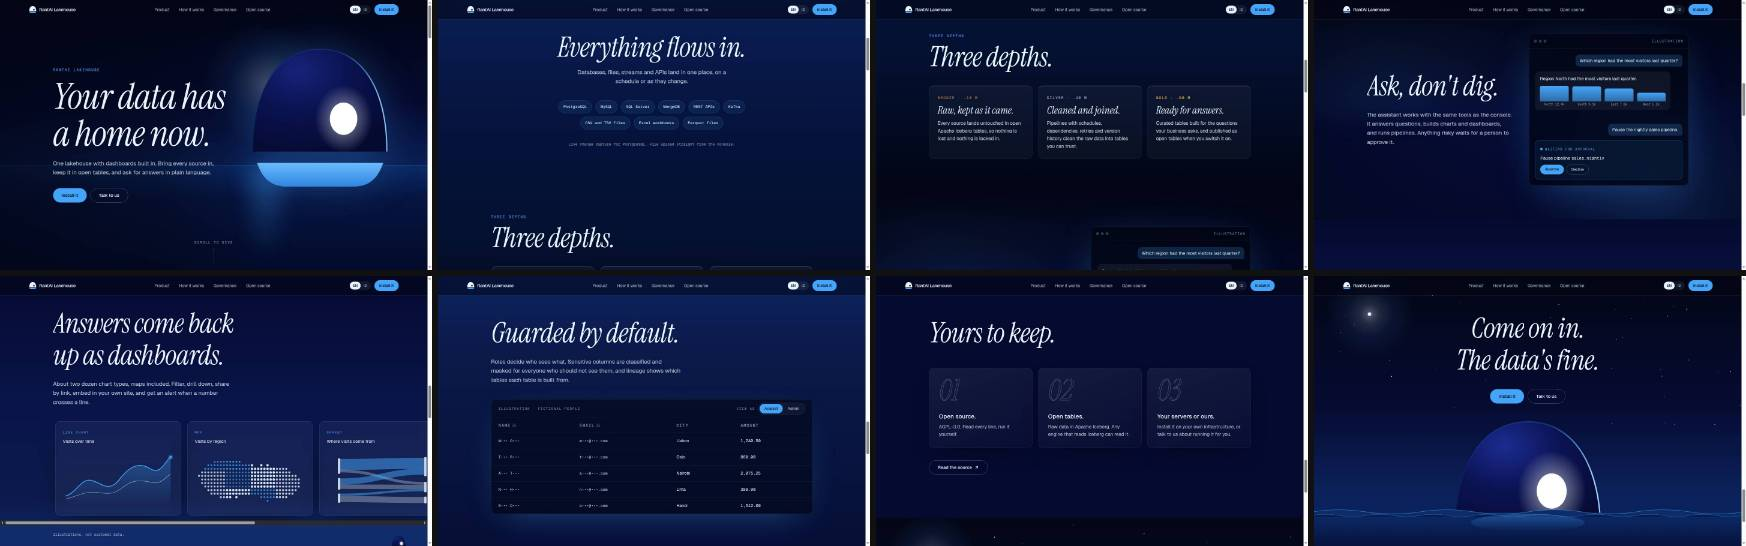
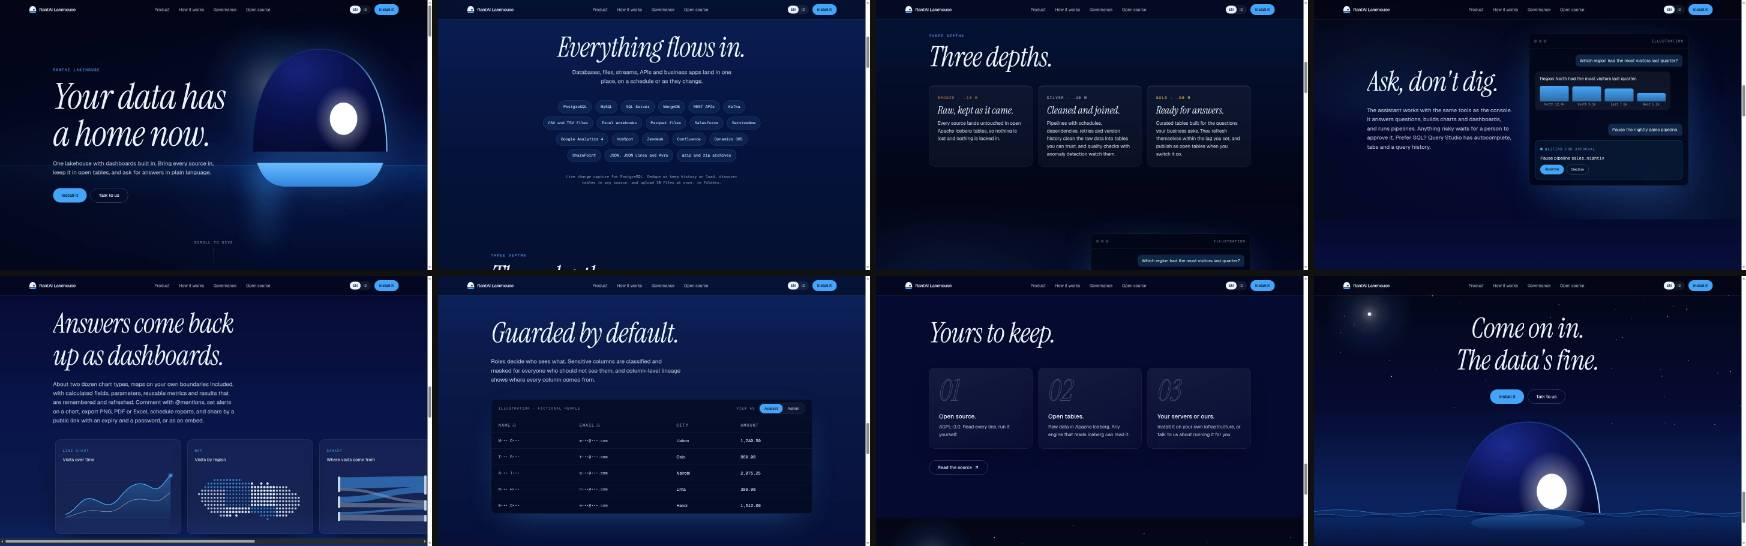
WEB-5 review fix R1 (BLOCKER) perf(site): initial JS 181.2 KB, under the 200 KB budget
PR #379 review 1, R1 BLOCKER: 209.0 KB against 200 KB, so the CI site job
was red. The budget is unchanged.

What was measured, in order:
- The review's suggestion, motion's async LazyMotion
  (`features={() => import("./dom-animation")…}`): 210.1 KB. Turbopack
  writes a bare `import()` target into the HTML as an `async` script, so
  the feature chunk stayed in the first load.
- The real cause: `motion/react` is
  `import * as fm from "framer-motion"; export * …; const motion = fm.motion`.
  Through that local binding, any import from it keeps the full `motion`
  component (layout and drag), whatever LazyMotion or `m.*` do. That is why
  T5's LazyMotion step saved only 0.2 KB.
- Fix 1: the 15 site files import from `framer-motion`, the package
  `motion/react` re-exports, at the exact version `motion` 14.9.1 already
  installed (14.9.1), and its plain re-exports tree-shake. The now-unused
  `motion` dependency is removed. Both changes were made with bun 1.3.12;
  bun.lock stays at lockfileVersion 1. This replaces D1's
  "motion ^14.9.0" with its React package and is flagged for review.
- Fix 2: `domAnimation` arrives after hydration through a `next/dynamic`
  component (`DomAnimationLoader`, ssr: false), which is not written into
  the HTML, and an async LazyMotion waits on its promise. The feature code
  is in two deferred chunks, about 17 KB.
- Result: 181.2 KB on / and /id/; `bun run size` exits 0.

The review's conditions:
[…]

diff --git a/site/src/components/home/assistant-section.tsx b/site/src/components/home/assistant-section.tsx
@@ -1,7 +1,7 @@
 "use client";
 
 import * as React from "react";
-import { m, useMotionValueEvent, useTransform, type MotionValue } from "motion/react";
+import { m, useMotionValueEvent, useTransform, type MotionValue } from "framer-motion";
 import type { HomeCopy } from "@/lib/copy";
 import { APPROVAL_TARGET, REGIONS } from "@/lib/home-content";
 import { Container, DisplayHeading, LeadText } from "@/components/shared/primitives";
@@ -79,6 +79,10 @@ function Caustics() {
   );
 }
 
+// Every `m` element below whose style switches on `reduced` is keyed on it:
+// before motion's features load an `m` element keeps the style it first
+// rendered (WEB-5 review fix R1), and `reduced` is only known after
+// hydration, so a switch of style must remount the element.
 function ChatWindow({ copy, progress, reduced }: { copy: AssistantCopy; progress: MotionValue<number>; reduced: boolean }) {
   // Opacity and travel of each beat, from the same progress.
   const frame = useTransform(progress, [0, 0.05], [0, 1]);
@@ -99,6 +103,7 @@ function ChatWindow({ copy, progress, reduced }: { copy: AssistantCopy; progress
         data-reveal
         aria-hidden="true"
         className="overflow-hidden rounded-3xl border border-[#E8F4FF]/12 bg-[#020514]/70 shadow-[0_30px_120px_-30px_rgba(68,166,250,0.35)] backdrop-blur-xl"
+        key={reduced ? "reduced" : "motion"}
         style={reduced ? { opacity: 1 } : { opacity: frame }}
       >
         <div className="flex items-center justify-between border-b border-[#E8F4FF]/10 px-4 py-3">
@@ -118,6 +123,7 @@ function ChatWindow({ copy, progress, reduced }: { copy: AssistantCopy; progress
           <div className="relative min-h-[120px] md:min-h-[158px]">
             <m.div
               className="absolute top-0 left-0 flex h-9 items-center gap-1.5 rounded-2xl rounded-bl-md bg-[#E8F4FF]/[0.06] px-4"
+              key={reduced ? "reduced" : "motion"}
               style={reduced ? { opacity: 0 } : { opacity: think1 }}
             >
               <Dots />
@@ -125,6 +131,7 @@ function ChatWindow({ copy, progress, reduced }: { copy: AssistantCopy; progress
             <m.div
               data-reveal
               className="max-w-[92%] rounded-2xl rounded-bl-md bg-[#E8F4FF]/[0.06] px-3.5 py-3 md:px-4"
+              key={reduced ? "reduced" : "motion"}
               style={reduced ? { opacity: 1, y: 0 } : { opacity: answerO, y: answerY }}
             >
               <p className="text-[13px] leading-5 text-[#E8F4FF] md:text-[15px] md:leading-6">{copy.answerOne}</p>
@@ -143,6 +150,7 @@ function ChatWindow({ copy, progress, reduced }: { copy: AssistantCopy; progress
           <div className="relative min-h-[92px] md:min-h-[104px]">
             <m.div
               className="absolute top-0 left-0 flex h-9 items-center gap-1.5 rounded-2xl rounded-bl-md bg-[#E8F4FF]/[0.06] px-4"
+              key={reduced ? "reduced" : "motion"}
               style={reduced ? { opacity: 0 } : { opacity: think2 }}
             >
               <Dots />
@@ -150,6 +158,7 @@ function ChatWindow({ copy, progress, reduced }: { copy: AssistantCopy; progress
             <m.div
               data-reveal
               className="rounded-2xl border border-[#44A6FA]/45 bg-[#44A6FA]/[0.08] p-3.5 md:p-4"
+              key={reduced ? "reduced" : "motion"}
               style={reduced ? { opacity: 1, y: 0, scale: 1 } : { opacity: approvalO, y: approvalY, scale: approvalS }}
             >
               <div className="flex items-center gap-2">
@@ -199,6 +208,7 @@ function Bar({
       <m.div
         data-reveal
         className="w-full origin-bottom rounded-t-md bg-gradient-to-t from-[#44A6FA]/60 to-[#44A6FA]"
+        key={reduced ? "reduced" : "motion"}
         style={{ height: `${Math.round(height * 100)}%`, scaleY: reduced ? 1 : scaleY }}
       />
       <span className="lk-mono text-center text-[9px] leading-3 text-[#E8F4FF]/60 md:text-[10px]">

diff --git a/site/src/components/shared/motion-features.tsx b/site/src/components/shared/motion-features.tsx
@@ -1,6 +1,9 @@
 "use client";
 
-import { domAnimation, LazyMotion } from "motion/react";
+import dynamic from "next/dynamic";
+import { LazyMotion } from "framer-motion";
+import { QuietBoundary } from "./quiet-boundary";
+import type { domAnimation } from "framer-motion";
 
 /**
  * WEB-5 D5: the page's animations use `m.*` components with only the
@@ -8,11 +11,45 @@ import { domAnimation, LazyMotion } from "motion/react";
  * instead of `motion.*`, which bundles every feature (layout, drag) into
  * the first JavaScript. `strict` makes a stray `motion.*` an error at
  * runtime rather than a silent return of the full bundle.
+ *
+ * WEB-5 review fix R1 (BLOCKER): the features arrive after hydration.
+ * motion's async form, `features={() => import(...)}`, was measured first:
+ * Turbopack still writes a bare `import()` target into the HTML as an
+ * `async` script, so the chunk stayed in the first load (210.1 KB). A
+ * `next/dynamic` component with `ssr: false` is not written into the HTML
+ * (the 3D scene loads the same way), so the features come through
+ * `DomAnimationLoader`, which resolves the promise `LazyMotion` waits on.
+ *
+ * Until then every `m.*` element shows what the server rendered. Reveals
+ * start hidden only once the features are in: `markReady` puts
+ * `motion-ready` on <html>, and `app/globals.css` keeps every
+ * `[data-reveal]` visible without it. If the chunk never loads, nothing
+ * stays at opacity 0, and `QuietBoundary` keeps its load error from taking
+ * the page down (both measured with the chunk blocked). The hero's h1 and calls to action use no reveal and
+ * no feature, so the largest paint never waits on this chunk.
  */
+type Features = typeof domAnimation;
+
+let resolveFeatures: (features: Features) => void = () => {};
+const features = new Promise<Features>((resolve) => {
+  resolveFeatures = resolve;
+});
+const loadFeatures = () => features;
+
+function markReady(loaded: Features): void {
+  resolveFeatures(loaded);
+  document.documentElement.classList.add("motion-ready");
+}
+
+const DomAnimationLoader = dynamic(() => import("./dom-animation-loader"), { ssr: false });
+
 export function MotionFeatures({ children }: { children: React.ReactNode }) {
   return (
-    <LazyMotion features={domAnimation} strict>
+    <LazyMotion features={loadFeatures} strict>
       {children}
+      <QuietBoundary>
+        <DomAnimationLoader onLoad={markReady} />
+      </QuietBoundary>
     </LazyMotion>
   );
 }

diff --git a/site/src/components/layout/site-document.tsx b/site/src/components/layout/site-document.tsx
@@ -17,8 +17,6 @@ import type { SuggestionText } from "./language-suggestion";
  * `NextIntlClientProvider`, so neither the message files nor next-intl's
  * client runtime ship (D5, measured in T5).
  */
-const JS_CLASS_SCRIPT = `document.documentElement.classList.add("js")`;
-
 export async function SiteDocument({
   locale,
   children,
@@ -30,17 +28,10 @@ export async function SiteDocument({
       : null;
 
   return (
-    // `suppressHydrationWarning`: the inline script below adds `js` to this
-    // element's classes before React hydrates it, on purpose.
+    // `suppressHydrationWarning`: `motion-features.tsx` adds `motion-ready`
+    // to this element's classes in the browser, on purpose.
     <html lang={locale} className={fontVariables} suppressHydrationWarning>
       <body>
-        {/* WEB-5 D5: reveal animations hide their content only once this class
-            is set (globals.css), so the server HTML reads in full without
-            JavaScript, or when the scripts fail to load. A synchronous script
-            at the top of <body> runs before any of the page below it is
-            painted, so a visitor with JavaScript never sees content flash in
-            and out. */}
-        <script dangerouslySetInnerHTML={{ __html: JS_CLASS_SCRIPT }} />
         <MotionFeatures>
           {children}
           {suggestion && <DeferredLanguageSuggestion text={suggestion} />}

diff --git a/site/src/components/home/sources-section.tsx b/site/src/components/home/sources-section.tsx
@@ -1,7 +1,7 @@
 "use client";
 
 import * as React from "react";
-import { m, useTransform, type MotionValue } from "motion/react";
+import { m, useTransform, type MotionValue } from "framer-motion";
 import type { HomeCopy } from "@/lib/copy";
 import { Container, DisplayHeading, LeadText } from "@/components/shared/primitives";
 import { Reveal } from "@/components/shared/reveal";
@@ -36,6 +36,9 @@ export function SourcesSection({ copy }: { copy: HomeCopy["sources"] }) {
             // glow of the mascot's eye seen through the water, so it gets a dark
             // backing there (body text stays above 4.5:1 on it).
             className="relative z-10 max-md:rounded-3xl max-md:bg-[#020b2a]/70 max-md:p-4"
+            // Keyed on `reduced`: before motion's features load an `m` element keeps
+            // the style it first rendered (review fix R1), so a switch must remount it.
+            key={reduced ? "reduced" : "motion"}
             style={reduced ? { opacity: 1, y: 0 } : { opacity: headOpacity, y: headY }}
           >
             <DisplayHeading>{copy.headline}</DisplayHeading>

diff --git a/site/src/components/home/scene-zone.tsx b/site/src/components/home/scene-zone.tsx
@@ -3,6 +3,7 @@
 import * as React from "react";
 import dynamic from "next/dynamic";
 import { useLandingMode } from "@/components/effects/scene-mode";
+import { QuietBoundary } from "@/components/shared/quiet-boundary";
 import { cn } from "@/lib/utils";
 
 /**
@@ -46,12 +47,15 @@ export function SceneZone({ children }: { children: React.ReactNode }) {
             sceneReady ? "opacity-100" : "opacity-0",
           )}
         >
-          <LakeScene
-            mode={mode === "still" ? "still" : "full"}
-            observe={zoneRef}
-            onReady={markReady}
-            onFail={markFailed}
-          />
+          {/* A scene chunk that fails to load falls back to the DOM hero, like a lost context (review fix R1). */}
+          <QuietBoundary onError={markFailed}>
+            <LakeScene
+              mode={mode === "still" ? "still" : "full"}
+              observe={zoneRef}
+              onReady={markReady}
+              onFail={markFailed}
+            />
+          </QuietBoundary>
         </div>
       )}
       <div className="relative z-10">{children}</div>

diff --git a/site/src/components/shared/quiet-boundary.tsx b/site/src/components/shared/quiet-boundary.tsx
@@ -1,0 +1,32 @@
+"use client";
+
+import * as React from "react";
+
+/**
+ * Catches an error under it, usually a deferred chunk that failed to load,
+ * and renders nothing in its place. WEB-5 review fix R1: without it, a
+ * `next/dynamic` chunk that never arrives (a flaky network, a blocked
+ * script) throws a ChunkLoadError up to Next's root, which replaces the
+ * whole page with its "This page couldn't load" screen, measured with the
+ * chunk blocked. Every deferred piece of the page (the animation features,
+ * the 3D scene, the language offer) sits under one, so the page itself
+ * always stays.
+ */
+export class QuietBoundary extends React.Component<
+  { children: React.ReactNode; onError?: () => void },
+  { failed: boolean }
+> {
+  state = { failed: false };
+
+  static getDerivedStateFromError(): { failed: boolean } {
+    return { failed: true };
+  }
+
+  componentDidCatch(): void {
+    this.props.onError?.();
+  }
+
+  render(): React.ReactNode {
+    return this.state.failed ? null : this.props.children;
+  }
+}

diff --git a/site/src/components/home/hero-section.tsx b/site/src/components/home/hero-section.tsx
@@ -1,7 +1,7 @@
 "use client";
 
 import * as React from "react";
-import { m, useTransform } from "motion/react";
+import { m, useTransform } from "framer-motion";
 import { cn } from "@/lib/utils";
 import type { CommonCopy, HomeCopy } from "@/lib/copy";
 import { LINKS } from "@/lib/home-content";
@@ -48,6 +48,9 @@ export function HeroSection({ copy, cta }: { copy: HomeCopy["hero"]; cta: Common
             // no opacity, travel or filter until the live lake runs; the
             // server HTML and the DOM hero carry no style here at all.
             style={live ? { opacity: copyOpacity, y: copyY, filter: copyBlur } : undefined}
+            // Keyed on `live` for the same reason as the reduced-motion keys
+            // (review fix R1): the scroll styles arrive after hydration.
+            key={live ? "live" : "still"}
           >
             {/* WEB-1 review round 1 SHOULD-FIX 4: on a phone the eyebrow sits on the moon's
                 reflection, so it is lighter and carries a dark halo there. */}

diff --git a/site/src/components/layout/deferred-language-suggestion.tsx b/site/src/components/layout/deferred-language-suggestion.tsx
@@ -3,6 +3,7 @@
 import * as React from "react";
 import dynamic from "next/dynamic";
 import { afterPaint } from "@/lib/after-paint";
+import { QuietBoundary } from "@/components/shared/quiet-boundary";
 import type { SuggestionText } from "./language-suggestion";
 
 const LanguageSuggestion = dynamic(() => import("./language-suggestion"), { ssr: false });
@@ -14,7 +15,13 @@ const LanguageSuggestion = dynamic(() => import("./language-suggestion"), { ssr:
  */
 export function DeferredLanguageSuggestion({ text }: Readonly<{ text: SuggestionText }>) {
   const ready = React.useSyncExternalStore(subscribeReady, () => isReady, () => false);
-  return ready ? <LanguageSuggestion text={text} /> : null;
+  if (!ready) return null;
+  // A chunk that fails to load just means no offer (review fix R1).
+  return (
+    <QuietBoundary>
+      <LanguageSuggestion text={text} />
+    </QuietBoundary>
+  );
 }
 
 let isReady = false;

diff --git a/site/src/app/globals.css b/site/src/app/globals.css
@@ -136,10 +136,12 @@ html:has(.lk-root) {
 
 /* WEB-5 D5: content is visible without JavaScript. Every reveal starts
    hidden through inline styles (opacity, travel, blur) that the server HTML
-   already carries; until the inline script in `site-document.tsx` has put
-   `js` on <html>, those starting states are overridden, so a visitor without
-   JavaScript reads the page in full. (This replaces the `<noscript>` patch.) */
-html:not(.js) [data-reveal] {
+   already carries. Until motion's animation features have loaded and
+   `motion-features.tsx` has put `motion-ready` on <html>, those starting
+   states are overridden, so a visitor without JavaScript, or whose features
+   chunk failed, reads the page in full (WEB-5 review fix R1). This replaces
+   the `<noscript>` patch. */
+html:not(.motion-ready) [data-reveal] {
   opacity: 1 !important;
   transform: none !important;
   filter: none !important;

diff --git a/site/src/components/shared/reveal.tsx b/site/src/components/shared/reveal.tsx
@@ -1,7 +1,7 @@
 "use client";
 
 import * as React from "react";
-import { m } from "motion/react";
+import { m } from "framer-motion";
 import { cn } from "@/lib/utils";
 import { useReducedMotionSafe } from "@/hooks/use-reduced-motion";
 
@@ -10,8 +10,9 @@ import { useReducedMotionSafe } from "@/hooks/use-reduced-motion";
  *
  * With `prefers-reduced-motion` they are fades only: no travel, no blur,
  * no stagger (plan §2.8). Every revealed node carries `data-reveal`, which
- * `app/globals.css` shows in full until the `js` class is on <html> (WEB-5
- * D5), so the page reads without JavaScript.
+ * `app/globals.css` shows in full until `motion-ready` is on <html> (WEB-5
+ * D5, review fix R1), so the page reads without JavaScript and when the
+ * animation features fail to load.
  */
 
 /** A cubic ease-out with a long tail; the page's default "arrive" curve. */

diff --git a/site/src/components/shared/dom-animation-loader.tsx b/site/src/components/shared/dom-animation-loader.tsx
@@ -1,0 +1,15 @@
+"use client";
+
+import * as React from "react";
+import { domAnimation } from "framer-motion";
+
+/**
+ * Hands motion's `domAnimation` features to `MotionFeatures` once mounted.
+ * Its own module so `next/dynamic` can load it after hydration (WEB-5 review
+ * fix R1): this file is the only one that imports `domAnimation`, so the
+ * feature code lives in its chunk and not in the first JavaScript.
+ */
+export default function DomAnimationLoader({ onLoad }: { onLoad: (features: typeof domAnimation) => void }) {
+  React.useEffect(() => onLoad(domAnimation), [onLoad]);
+  return null;
+}

diff --git a/site/src/components/home/depths-section.tsx b/site/src/components/home/depths-section.tsx
@@ -1,7 +1,7 @@
 "use client";
 
 import * as React from "react";
-import { AnimatePresence, m, useMotionValueEvent, useTransform, type MotionValue } from "motion/react";
+import { AnimatePresence, m, useMotionValueEvent, useTransform, type MotionValue } from "framer-motion";
 import { cn } from "@/lib/utils";
 import type { HomeCopy } from "@/lib/copy";
 import { DEPTH_LAYERS, type DepthLayer } from "@/lib/home-content";
